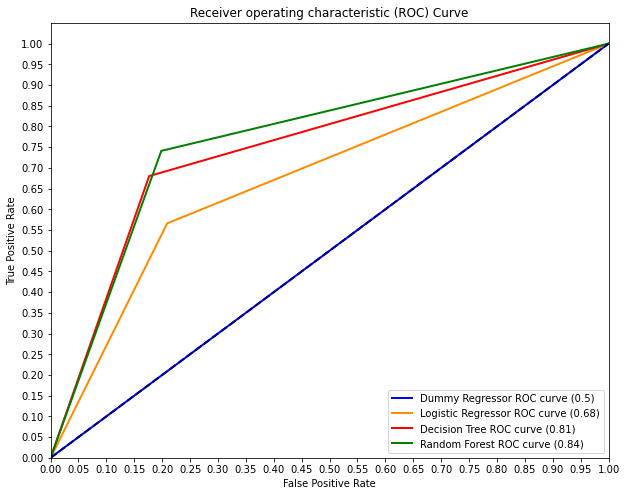
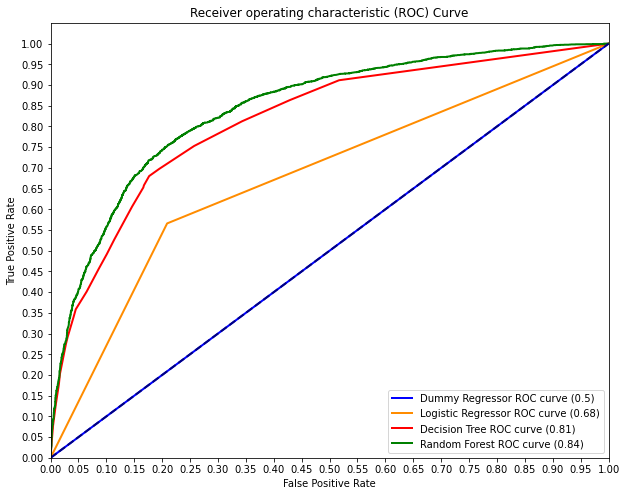
updated readme pictures and finished future research section

Changed region(s): [[0.0607, 0.0605, 0.9712, 0.9073]]

diff --git a/README.md b/README.md
@@ -1,12 +1,15 @@
-# Understanding Seasonal Flu Vaccine Likelyhood in the United States
+# Understanding Seasonal Flu Vaccine Likelihood in the United States
 
 <img src="https://elitelv.com/wp-content/uploads/2020/01/When-The-Flu-Shot-Fails-1024x536.jpg" width="500">
 
 ## Business Problem
+
+In 2010, the seasonal flu virus was responsible for an estimated 290,000 hospitalizations and 37,000 deaths. The CDC recommends the seasonal flu vaccine as it has been shown to reduce the number of deaths, intensive care unit (ICU) admissions, ICU length of stay, and overall duration of hospitalization among hospitalized flu patients.
+
 In light of their new vaccination initiative, the CDC has conducted surveys on random individuals throughout the country. **The Goal:** Deliver an inferential binary classifier model to stakeholder (CDC) that determines if someone will take the Seasonal Flu vaccine based on responses to a phone survey. Predictions on future surveys can help assess public health risk by determining the percent of the population likely to get vaccinated.
 
 ## Data Understanding
-The dataset was from the U.S. Department of Health and Human Services (DHHS) and consisted of phone surveys conducted in 2009. The survey contained demographic questions (age,sex,education etc.) along with opinion questions (vaccine effectiveness, flu risk, etc.) The target variable was wether or not the vaccine was taken. 47% of respondents to the survey had taken the 2009 seasonal flu vaccine.
+The dataset was from the U.S. Department of Health and Human Services (DHHS) and consisted of phone surveys conducted in 2009. The survey contained demographic questions (age,sex,education etc.) along with opinion questions (vaccine effectiveness, flu risk, etc.) The target variable was whether or not the vaccine was taken. 47% of respondents to the survey had taken the 2009 seasonal flu vaccine.
 
 ## Data Cleaning
 The dataset also included questions related to the 2009 H1N1 flu and vaccine. These input variables have been dropped from the dataset due to relevance to the business problem (seasonal flu vaccine). In addition, four input variables had high amounts of missing data (>10% missing):
@@ -49,22 +52,24 @@ The team decided to use a decision tree as a step-up model as it is immune to mu
 <tr><td><img src="images/tree_2_splits.png" alt="Trulli" style="width:100%"></td></tr>
 </table>
 
-The average cross validation ROC AUC is 0.81 (81%) which is considerably higher than the average cross validation ROC AUC of the one feature logistic regression model (68%). The test ROC AUC is 75.2%. Although the model is slightly overfitting, this model has a higher test ROC AUC than the one feature logistic regression model (68%).
+The average cross validation ROC AUC is 0.81 (81%) which is considerably higher than the average cross validation ROC AUC of the one feature logistic regression model (68%). The test ROC AUC is 81.4%. Although the model is slightly overfitting, this model has a higher test ROC AUC than the one feature logistic regression model (68%).
 
 ### Random Forest - Final Model
-To further improve on the ROC curve AUC, Random Forest was selected as the final model to help reduce overfitting from just a single decision tree. The average cross validation ROC AUC is 0.838 (83.8%), which is higher than the average cross validation ROC AUC of the Decision Tree (81%). The test ROC AUC is 77.1%. Although the model is slightly overfitting, this model has a higher test ROC AUC than the decision tree model (75.2%).
+To further improve on the ROC curve AUC, Random Forest was selected as the final model to help reduce overfitting from just a single decision tree. The average cross validation ROC AUC is 0.838 (83.8%), which is higher than the average cross validation ROC AUC of the Decision Tree (80.9%). The test ROC AUC is 84.4%. This model has a higher test ROC AUC than the decision tree model (81.4%).
 
-In addition the random forest model shows improvement over previous models for both precision, recall and accuracy scores:
+In addition, the random forest model shows improvement over previous models for accuracy and f1 scores:
 
 <img src="images/cm_all.png" width="1000">
 
+There is a slight decrease in precision score moving from decision tree to random forest but the increase in recall score is much higher.
+
 ## Conclusion
 
-The below graph shows the improvement on the performance metric of ROC AUC of each model. The final model (Random Forest) showed an increase of .1 over the logistic regression model and .24 over the baseline model (majority class).
+The below graph shows the improvement on the performance metric of ROC AUC of each model. The final model (Random Forest) showed an increase of .17 over the logistic regression model and .34 over the baseline model (majority class).
 
 <img src="images/ROC_AUC_all.png" width="1000">
 
-From the initial tree splits of the model the following recommendations can be made to improve the phone survey and increase the likelyhood of someone taking the vaccine.
+From the initial tree splits of the model the following recommendations can be made to improve the phone survey and increase the likelihood of someone taking the vaccine.
 
 Recommendations:
 
@@ -75,5 +80,13 @@ Recommendations:
 2. Education on vaccination efficacy will help improve peoples willingness to receive a seasonal flu vaccine
 3. Encourage healthcare professionals to recommend the seasonal flu vaccine 
 
-## Future Work
+## Future Research
 
+* Look to improve completion rate of survey so the dropped columns listed in data cleaning section can be utilized.
+* Gather more demographic data like location to make more inferential recommendations
+
+## Citations
+
+[1] https://www.cdc.gov/flu/prevent/flushot.htm
+
+[2] https://www.drivendata.org/competitions/66/flu-shot-learning/page/210/
